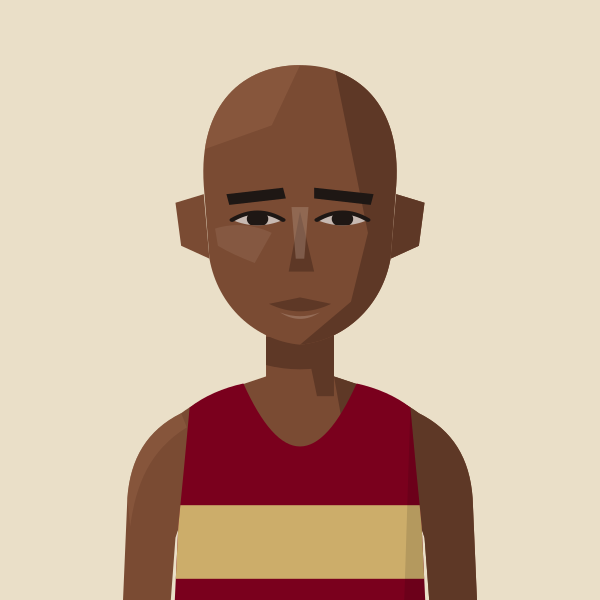
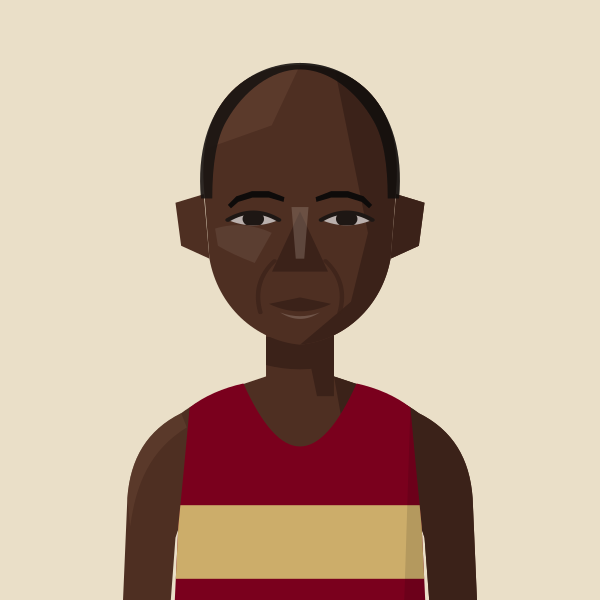
Portrait: Paskar Owor redrawn (close crop, round head, rounded brows, smile lines, broader nose)
Claude-Session: https://claude.ai/code/session_01MgmDWhFqnSSnP4iBLKXUZC

Changed region(s): [[0.27, 0.09, 0.72, 0.75], [0.66, 0.69, 0.81, 1.0], [0.18, 0.69, 0.33, 1.0]]

diff --git a/files/index.html b/files/index.html
@@ -787,7 +787,7 @@ const portraitFile=(name,club)=>{const k=normalizeNameForCompare(name||'').repla
 const portraitClubOf=(name,clubs)=>{for(const c of clubs||[]){if(c&&portraitFile(name,c))return c;}return null;}; /* first of these clubs we have a portrait for */
 // Athlete header figure: superstar portrait if we have one, else a grey runner in the club vest, else the plain vest icon
 // Changes whenever any portrait changes (set by tools/build_og.py), so browsers fetch fresh images instead of old cached ones
-const PORTRAIT_V='9e3172cc';const PORTRAIT_WOMEN='abbey-brooke,abbie-bulbulian,adele-prince,aimee-hargreaves,aisling-ahern,alex-brown,alex-gandee,alex-marginean,alex-miller,alexa-parker,alexandra-barbour,alice-braham,alice-bridger-morales,alice-crane,alice-martin,alice-reed,alice-smith,alison-purnell,alison-thomson,amelia-pettitt,amy-clements,andrea-barber,anika-schwarze-chintapatla,anna-garnier,anna-garnier-hw,anna-sharp,annabel-hobday,annabelle-hadlow,anne-hegvold,annmarie-seymour,ava-mcandie,becky-briggs,bethan-goddard,bethanie-murray,bethany-brown,betsy-griffiths,billie-mcclosky,camilla-barden,caoimhe-nic-fhogartaigh,carolyne-baxter,catherine-bryson,catherine-eastham,catherine-kandie,cathy-ansell,charlotte-griffiths,chloe-beckett,chloe-tighe,chrissie-wellington,claire-grima,clara-pettit,clare-elms,clare-pauzers,dillan-quinn,dorchie-cockerell,eilidh-hide,elinor-skinner,eliza-grant,elizabeth-apsley,elizabeth-stavreski,ella-fennelly,ella-king-powrie,ella-may-hards,ella-newton,ellen-weir,ellie-brown,ellie-freeden,eloise-bull,emilie-arnoux,emily-barrett,emily-bradley,emily-lowery,emily-robbins,emma-gordon,emma-howsham,emma-lord,emma-rowland,estle-viljoen,evie-warren,felicity-cole,felicity-harrison,felicity-hayward,fi-maddocks,fiona-de-mauny,florence-wiggins,gabby-collison,gabriel-reynolds,gemma-newport,genevieve-blanch,georgia-curry,georgie-bruinvels,georgie-fenn,georgie-furze,georgie-grgec,gina-galbraith,grace-leyland,grace-richardson,hannah-edwards,hannah-english,heather-statham,heather-statham-cc,helena-corbin,helena-keenan,holly-nixon,holly-pan,imogen-mackie,imogen-wolsey,iona-cousland,isabel-bradley,isabel-brinsden,isabelle-pickett,isobel-hodder,jennifer-nandi,jennifer-smith,jess-reed,jess-saunders,jess-winfield,jessica-davies,jessica-lowe,jodie-favell,josephine-rhodes,julia-bleasdale,julia-wedmore,juliet-hodder,jurgita-levertaviciute,justine-lynch,karen-fenner,karen-xiang,karina-box,kate-axford,kate-williams,kathy-sharpe,katie-ellen-french,katie-good,katie-snowden,katy-hedgethorne,kitty-shepherd-cross,kristina-popadich,lara-bromilow,lara-mangan,laura-goodson,laura-miles,lauren-major,lea-adamson,lily-newton,lisa-bailey,lisa-thomas,lisa-thomas-hw,lizzie-goldie-scot,louise-cooper,lucy-jones,lucy-macalister,lucy-peters,lydia-blackmore,lydia-gallyer-barnett,maddie-mastrolonardo,maddy-whitman,maeve-kenny,margaret-coogan,martina-conner,mary-james,mary-setyabule,matilde-lomba,megan-gildea,mel-wilkins,mhairi-hall,mimi-corden-lloyd,molly-oconnor,molly-smith,monika-gajek,naomi-lenane,natalie-beadle,natalie-seymour,natasha-lodge,niamh-thompson,nicky-hayes,nicola-cartlidge,nicola-douglas,nikki-sturzaker,olivia-papaioannou,olivia-stillman,orna-mcginley,pamela-mchutchon,patricia-walker,patrizia-gnoato,penny-oliver,rachel-brown,rebecca-barrow,rebekah-edgar,ruby-carter,ruby-whyte-wilding,ruby-woolfe,sally-urquhart,sam-whiting,samantha-munday,sarah-astin,sarah-dewhirst,sarah-grover,sarah-hanley,sarah-holt,sarah-murphy,sarah-palmer,sarah-palmer-ran,sarah-riceman,sarah-young,saron-haileselase,serena-carter,sophie-cowper,sophie-harris,sophie-hicks,sophie-tooley,stacey-ward,steph-hewitt,steph-mccall,steph-mccall-cc,steph-mccall-slh,steph-mitchell,suzanne-swaine,suze-spalding,suzie-harvey,suzy-whatmough,teresa-murphy,tilly-heaton,tilly-heaton-bel,tish-jones,vic-cartwright,vicky-clarke,victoria-barthelmess,victoria-buck,vikki-filsell,zoe-doyle,zoe-macdonald,zuzana-nemeckova';const PORTRAIT_MEN='aaron-wilson,abdulla-elsadig,adam-leane,adrian-major,adrien-royer,alan-black,alan-mead,alex-brecker,alex-bruce-littlewood,alex-gutteridge,alex-harris,alex-howard,alex-janiaud,alex-lee,alex-lennon,alex-mills,alex-milne,alex-morales,alex-robinson,alex-yee,alexander-marks,amittai-ben-israel,andrew-cumine,andrew-green,andrew-penney,andrew-perfect,andrew-simms,andrew-warburton,andrius-jaksevicius,andy-coley-maud,andy-coley-maud-cc,andy-fyfe,andy-north,andy-paton,andy-weir,angus-butler,angus-lamb,anisse-ismaili,arlo-ludewick,arne-dumez,arthur-peel,ashley-goncalves,barnaby-day,barry-collins,barry-sawyer,ben-clarke,ben-coughlan,ben-harding,ben-hurley,ben-ireland,ben-millar,ben-paviour,ben-pearce,ben-racle,ben-revill,ben-reynolds,ben-scott,ben-toomer,benedict-whitby,benjamin-hilson,bernie-ford,bill-kerr,bill-weller,bill-weller-wal,bob-harrison,bob-holt,bob-lunnon,bob-rayman,bob-smith,bradley-courtney-pinn,brandon-dewar,brian-gorman,brian-wilder,caleb-hathaway,callum-stewart,cameron-dockerill,cameron-reilly,carl-delaney,charles-herrington,charlie-dabbs,charlie-dickinson,charlie-eastaugh,charlie-manning,charlie-pickett,charlie-rogers,charlie-sandison,charlie-walker,charlie-wyllie,che-compton,chris-busaileh,chris-busaileh-hhh,chris-greenwood,chris-keavey,chris-moss,chris-steer,chris-threadgold,chris-warren,christian-lee,christopher-parker,clive-gilby,clive-shippen,colin-high,colin-pearson,conall-mcnally,conall-whelan,craig-ruddy,dame-dibaba,dan-cliffe,dan-pettitt,daniel-shaw,daniel-wolff,dave-beard,dave-beaver,dave-glassborow,dave-holt,dave-taylor,david-anderson,david-bowers,david-grima,david-north,david-ogden,david-symons,david-walsh,david-williams,deron-fagan,dick-piotrowski,dimos-evangelidis,dominic-kiralyfi,don-anderson,don-faircloth,don-maclean,doug-maughan,duncan-rimmer,dylan-evans,dylan-mitchard,ed-brewer,ed-catmur,ed-gibson,ed-mallett,eddie-herridge,eddie-jodrell,eddie-rolls,edward-chuck,eoin-brady,eoin-molloy,ethan-mccolgan,falilou-kebe,findlay-dyer,finn-johnson,fintan-pearce,frank-tickner,frank-ward,fred-paget,fred-slemeck,freddie-hessian,garret-lee,gary-ribbons,gary-ribbons-ee,gary-staines,gavin-eccles,geoff-biscoe,geoff-jerwood,geoff-north,george-cotton,george-gathercole,george-jackson,george-loxton,george-mallett,george-ogden,gerry-adams,gerry-north,glen-keegan,gordon-pearce,graham-macky,harrison-hayman,harry-guttridge,hector-revill,henry-hart,henry-silverstein,hugo-hewitt,huw-lobb,ian-acreman,ian-crowe-wright,ian-ellwood,ian-harkness,indy-barnes,isaac-lutaya,isaac-parker,jack-brotchie,jack-dickson,jack-dormer,jack-hampshire,jack-harrison,jack-hobden,jack-kavanagh,jack-millar,jack-ramm,jack-woods,jacob-brockmann,jake-simmonds,james-bartram,james-blackwood,james-bowler,james-estall,james-ewing,james-fox,james-hancock,james-harvey,james-hoad,james-kelly,james-mcmullan,james-murray,james-nutt,james-preston,james-roberts,james-stockings,james-ward,james-wootton,jamie-crowe,jamie-parkinson,jared-martin,jean-paul-wright,jeff-cunningham,jeremy-dempsey,jermaine-mays,jerry-watson,jim-allchin,jim-rimmer,joe-english,joe-hartley,john-baker,john-bicourt,john-bromley,john-davies,john-dear,john-foss,john-foxall,john-gilbert,john-gladwin,john-hutchins,john-kendall,john-kimaiyo,john-lee,john-lethbridge,john-mather,john-moore,john-roberts,john-sanderson,john-stow,john-sullivan,john-thresher,jon-hobbs,jon-pepper,jon-pepper-slh,jon-phillips,jon-solly,jonathan-cocker,jonathan-collier,jonathan-cornish,jonathan-ratcliffe,jonathan-tipper,jonathon-blackledge,jonny-neville,jonny-scott,jordan-weaver,josh-mitchell,josh-snow,josh-trigwell,jules-gevers,junior-galley,justin-chaston,justin-reid,kassa-tadesse,keith-newton,kevin-nash,kevin-quinn,kevin-sturman,kieran-barnes,kieran-white,knut-hegvold,knut-hegvold-bel,larry-ryan,lawrence-avery,lee-lintern,lewis-lloyd,liam-burthem,lionel-mann,lloyd-kempson,luke-caldwell,mack-downie,malachi-byansi,marcello-bizio,marcelo-fortes,marco-mazzotta,mark-anderson,mark-miles,mark-sinclair,mark-tennyson,mark-waller,martin-dent,martin-lake,martin-lewington,martin-shore,mathew-speed,matt-chaston,matt-jones,matt-wood,matthew-edgar,matthew-houchell,matthew-thomas,matthew-varley,max-bloor,max-heyden,max-milarvie,max-nicholls,michael-baker,michael-mccarthy,mick-woods,mike-beevor,mike-boyle,mike-cummings,mike-farmery,mike-fuller,mike-hayes,mike-kortenray,mike-nouch,mohammed-ismail,monty-hudson,morgan-roberts,nathan-visick,neil-chisholm,neil-phillips,neil-speaight,neil-wilson,nic-lukies,nick-acfield,nick-altmann,nick-bester,nick-bester-hhh,nick-buckle,nick-bundle,nick-goolab,nick-lightfoot,nick-morris,nick-torry,noah-fernandez,norman-stairs,oli-carrington,oliver-carrington,oliver-fox,oliver-reynolds,oliver-young,ollie-foote,ollie-garrod,olly-buck,owen-hind,paddy-roddy,pancho-panchev,paskar-owor,pat-newell,patrick-mcdougall,paul-calver,paul-cheetham,paul-freary,paul-magner,paul-pollock,paul-sanderson,paul-sanderson-wok,pete-carton,pete-gardner,peter-clarke,peter-giles,peter-giles-thh,peter-lighting,phil-carstairs,phil-sanders,phil-sesemann,phil-swinburn,phil-wicks,phil-woodford-smith,raj-paranandi,ralph-street,ranjit-bhatia,ray-foley,reece-edwards,rhys-boorman,rian-mccawley,richard-ashe,richard-giles,richard-henderson,richard-langley,richard-mcdowell,richard-ollington,richard-partridge,richard-sun,richard-ward,rob-armstrong,rob-kelly,rob-tuer,robert-elphick,robert-laing,robert-norville,robert-peacock,robert-sesemann,robin-boon,robin-hudson,roger-alsop,roger-alsop-bel,ron-clark,ron-linstead,ronan-tanguy,rory-mcmahon,rory-orsborn,ross-braden,ross-christie,rowan-board,rowan-crichton,russell-dessaix-chin,ryan-hickey,ryan-mccallister,sam-bramwell,sam-charlton,sam-gebreselassie,sam-haughian,sam-peters,sam-sommerville,sam-tyas,samuel-dames,samuel-wilcock,sean-cordon,sebastian-anthony,simon-baines,simon-coombes,simon-coppard,simon-holmes,simon-rayner,simon-rayner-hw,simon-wade,simon-wade-hhh,simon-waterhouse,simon-williams,simon-wurr,sonny-nicoll,spencer-barden,stephen-mcleod,stephen-sharp,steve-gardner,steve-jones,steve-smythe,steve-smythe-hhh,stuart-beaney,stuart-major,stuart-major-thh,stuart-mccallum,stuart-paton,terry-booth,thomas-dugre,thomas-gandee,thomas-gardner,thomas-renshaw,tim-alexander,tim-eglen,tim-lawrence,tim-watson,toby-cooke,toby-fletcher,tom-austin,tom-cheetham,tom-conlon,tom-davies,tom-gifford,tom-higgs,tom-jervis,tom-lole,tom-south,tom-thornley,tommy-taylor,tony-binda,tony-fairclough,tony-harran,trevor-hart,valdis-pauzers,valentin-rigori,vic-maughan,wayne-oxborough,will-cockerell,will-lewis,will-marshall,will-scott,will-stockley,william-gardner,yacin-yusuf,zach-nolan';
+const PORTRAIT_V='8cf6c837';const PORTRAIT_WOMEN='abbey-brooke,abbie-bulbulian,adele-prince,aimee-hargreaves,aisling-ahern,alex-brown,alex-gandee,alex-marginean,alex-miller,alexa-parker,alexandra-barbour,alice-braham,alice-bridger-morales,alice-crane,alice-martin,alice-reed,alice-smith,alison-purnell,alison-thomson,amelia-pettitt,amy-clements,andrea-barber,anika-schwarze-chintapatla,anna-garnier,anna-garnier-hw,anna-sharp,annabel-hobday,annabelle-hadlow,anne-hegvold,annmarie-seymour,ava-mcandie,becky-briggs,bethan-goddard,bethanie-murray,bethany-brown,betsy-griffiths,billie-mcclosky,camilla-barden,caoimhe-nic-fhogartaigh,carolyne-baxter,catherine-bryson,catherine-eastham,catherine-kandie,cathy-ansell,charlotte-griffiths,chloe-beckett,chloe-tighe,chrissie-wellington,claire-grima,clara-pettit,clare-elms,clare-pauzers,dillan-quinn,dorchie-cockerell,eilidh-hide,elinor-skinner,eliza-grant,elizabeth-apsley,elizabeth-stavreski,ella-fennelly,ella-king-powrie,ella-may-hards,ella-newton,ellen-weir,ellie-brown,ellie-freeden,eloise-bull,emilie-arnoux,emily-barrett,emily-bradley,emily-lowery,emily-robbins,emma-gordon,emma-howsham,emma-lord,emma-rowland,estle-viljoen,evie-warren,felicity-cole,felicity-harrison,felicity-hayward,fi-maddocks,fiona-de-mauny,florence-wiggins,gabby-collison,gabriel-reynolds,gemma-newport,genevieve-blanch,georgia-curry,georgie-bruinvels,georgie-fenn,georgie-furze,georgie-grgec,gina-galbraith,grace-leyland,grace-richardson,hannah-edwards,hannah-english,heather-statham,heather-statham-cc,helena-corbin,helena-keenan,holly-nixon,holly-pan,imogen-mackie,imogen-wolsey,iona-cousland,isabel-bradley,isabel-brinsden,isabelle-pickett,isobel-hodder,jennifer-nandi,jennifer-smith,jess-reed,jess-saunders,jess-winfield,jessica-davies,jessica-lowe,jodie-favell,josephine-rhodes,julia-bleasdale,julia-wedmore,juliet-hodder,jurgita-levertaviciute,justine-lynch,karen-fenner,karen-xiang,karina-box,kate-axford,kate-williams,kathy-sharpe,katie-ellen-french,katie-good,katie-snowden,katy-hedgethorne,kitty-shepherd-cross,kristina-popadich,lara-bromilow,lara-mangan,laura-goodson,laura-miles,lauren-major,lea-adamson,lily-newton,lisa-bailey,lisa-thomas,lisa-thomas-hw,lizzie-goldie-scot,louise-cooper,lucy-jones,lucy-macalister,lucy-peters,lydia-blackmore,lydia-gallyer-barnett,maddie-mastrolonardo,maddy-whitman,maeve-kenny,margaret-coogan,martina-conner,mary-james,mary-setyabule,matilde-lomba,megan-gildea,mel-wilkins,mhairi-hall,mimi-corden-lloyd,molly-oconnor,molly-smith,monika-gajek,naomi-lenane,natalie-beadle,natalie-seymour,natasha-lodge,niamh-thompson,nicky-hayes,nicola-cartlidge,nicola-douglas,nikki-sturzaker,olivia-papaioannou,olivia-stillman,orna-mcginley,pamela-mchutchon,patricia-walker,patrizia-gnoato,penny-oliver,rachel-brown,rebecca-barrow,rebekah-edgar,ruby-carter,ruby-whyte-wilding,ruby-woolfe,sally-urquhart,sam-whiting,samantha-munday,sarah-astin,sarah-dewhirst,sarah-grover,sarah-hanley,sarah-holt,sarah-murphy,sarah-palmer,sarah-palmer-ran,sarah-riceman,sarah-young,saron-haileselase,serena-carter,sophie-cowper,sophie-harris,sophie-hicks,sophie-tooley,stacey-ward,steph-hewitt,steph-mccall,steph-mccall-cc,steph-mccall-slh,steph-mitchell,suzanne-swaine,suze-spalding,suzie-harvey,suzy-whatmough,teresa-murphy,tilly-heaton,tilly-heaton-bel,tish-jones,vic-cartwright,vicky-clarke,victoria-barthelmess,victoria-buck,vikki-filsell,zoe-doyle,zoe-macdonald,zuzana-nemeckova';const PORTRAIT_MEN='aaron-wilson,abdulla-elsadig,adam-leane,adrian-major,adrien-royer,alan-black,alan-mead,alex-brecker,alex-bruce-littlewood,alex-gutteridge,alex-harris,alex-howard,alex-janiaud,alex-lee,alex-lennon,alex-mills,alex-milne,alex-morales,alex-robinson,alex-yee,alexander-marks,amittai-ben-israel,andrew-cumine,andrew-green,andrew-penney,andrew-perfect,andrew-simms,andrew-warburton,andrius-jaksevicius,andy-coley-maud,andy-coley-maud-cc,andy-fyfe,andy-north,andy-paton,andy-weir,angus-butler,angus-lamb,anisse-ismaili,arlo-ludewick,arne-dumez,arthur-peel,ashley-goncalves,barnaby-day,barry-collins,barry-sawyer,ben-clarke,ben-coughlan,ben-harding,ben-hurley,ben-ireland,ben-millar,ben-paviour,ben-pearce,ben-racle,ben-revill,ben-reynolds,ben-scott,ben-toomer,benedict-whitby,benjamin-hilson,bernie-ford,bill-kerr,bill-weller,bill-weller-wal,bob-harrison,bob-holt,bob-lunnon,bob-rayman,bob-smith,bradley-courtney-pinn,brandon-dewar,brian-gorman,brian-wilder,caleb-hathaway,callum-stewart,cameron-dockerill,cameron-reilly,carl-delaney,charles-herrington,charlie-dabbs,charlie-dickinson,charlie-eastaugh,charlie-manning,charlie-pickett,charlie-rogers,charlie-sandison,charlie-walker,charlie-wyllie,che-compton,chris-busaileh,chris-busaileh-hhh,chris-greenwood,chris-keavey,chris-moss,chris-steer,chris-threadgold,chris-warren,christian-lee,christopher-parker,clive-gilby,clive-shippen,colin-high,colin-pearson,conall-mcnally,conall-whelan,craig-ruddy,dame-dibaba,dan-cliffe,dan-pettitt,daniel-shaw,daniel-wolff,dave-beard,dave-beaver,dave-glassborow,dave-holt,dave-taylor,david-anderson,david-bowers,david-grima,david-north,david-ogden,david-symons,david-walsh,david-williams,deron-fagan,dick-piotrowski,dimos-evangelidis,dominic-kiralyfi,don-anderson,don-faircloth,don-maclean,doug-maughan,duncan-rimmer,dylan-evans,dylan-mitchard,ed-brewer,ed-catmur,ed-gibson,ed-mallett,eddie-herridge,eddie-jodrell,eddie-rolls,edward-chuck,eoin-brady,eoin-molloy,ethan-mccolgan,falilou-kebe,findlay-dyer,finn-johnson,fintan-pearce,frank-tickner,frank-ward,fred-paget,fred-slemeck,freddie-hessian,garret-lee,gary-ribbons,gary-ribbons-ee,gary-staines,gavin-eccles,geoff-biscoe,geoff-jerwood,geoff-north,george-cotton,george-gathercole,george-jackson,george-loxton,george-mallett,george-ogden,gerry-adams,gerry-north,glen-keegan,gordon-pearce,graham-macky,harrison-hayman,harry-guttridge,hector-revill,henry-hart,henry-silverstein,hugo-hewitt,huw-lobb,ian-acreman,ian-crowe-wright,ian-ellwood,ian-harkness,indy-barnes,isaac-lutaya,isaac-parker,jack-brotchie,jack-dickson,jack-dormer,jack-hampshire,jack-harrison,jack-hobden,jack-kavanagh,jack-millar,jack-ramm,jack-woods,jacob-brockmann,jake-simmonds,james-bartram,james-blackwood,james-bowler,james-estall,james-ewing,james-fox,james-hancock,james-harvey,james-hoad,james-kelly,james-mcmullan,james-murray,james-nutt,james-preston,james-roberts,james-stockings,james-ward,james-wootton,jamie-crowe,jamie-parkinson,jared-martin,jean-paul-wright,jeff-cunningham,jeremy-dempsey,jermaine-mays,jerry-watson,jim-allchin,jim-rimmer,joe-english,joe-hartley,john-baker,john-bicourt,john-bromley,john-davies,john-dear,john-foss,john-foxall,john-gilbert,john-gladwin,john-hutchins,john-kendall,john-kimaiyo,john-lee,john-lethbridge,john-mather,john-moore,john-roberts,john-sanderson,john-stow,john-sullivan,john-thresher,jon-hobbs,jon-pepper,jon-pepper-slh,jon-phillips,jon-solly,jonathan-cocker,jonathan-collier,jonathan-cornish,jonathan-ratcliffe,jonathan-tipper,jonathon-blackledge,jonny-neville,jonny-scott,jordan-weaver,josh-mitchell,josh-snow,josh-trigwell,jules-gevers,junior-galley,justin-chaston,justin-reid,kassa-tadesse,keith-newton,kevin-nash,kevin-quinn,kevin-sturman,kieran-barnes,kieran-white,knut-hegvold,knut-hegvold-bel,larry-ryan,lawrence-avery,lee-lintern,lewis-lloyd,liam-burthem,lionel-mann,lloyd-kempson,luke-caldwell,mack-downie,malachi-byansi,marcello-bizio,marcelo-fortes,marco-mazzotta,mark-anderson,mark-miles,mark-sinclair,mark-tennyson,mark-waller,martin-dent,martin-lake,martin-lewington,martin-shore,mathew-speed,matt-chaston,matt-jones,matt-wood,matthew-edgar,matthew-houchell,matthew-thomas,matthew-varley,max-bloor,max-heyden,max-milarvie,max-nicholls,michael-baker,michael-mccarthy,mick-woods,mike-beevor,mike-boyle,mike-cummings,mike-farmery,mike-fuller,mike-hayes,mike-kortenray,mike-nouch,mohammed-ismail,monty-hudson,morgan-roberts,nathan-visick,neil-chisholm,neil-phillips,neil-speaight,neil-wilson,nic-lukies,nick-acfield,nick-altmann,nick-bester,nick-bester-hhh,nick-buckle,nick-bundle,nick-goolab,nick-lightfoot,nick-morris,nick-torry,noah-fernandez,norman-stairs,oli-carrington,oliver-carrington,oliver-fox,oliver-reynolds,oliver-young,ollie-foote,ollie-garrod,olly-buck,owen-hind,paddy-roddy,pancho-panchev,paskar-owor,pat-newell,patrick-mcdougall,paul-calver,paul-cheetham,paul-freary,paul-magner,paul-pollock,paul-sanderson,paul-sanderson-wok,pete-carton,pete-gardner,peter-clarke,peter-giles,peter-giles-thh,peter-lighting,phil-carstairs,phil-sanders,phil-sesemann,phil-swinburn,phil-wicks,phil-woodford-smith,raj-paranandi,ralph-street,ranjit-bhatia,ray-foley,reece-edwards,rhys-boorman,rian-mccawley,richard-ashe,richard-giles,richard-henderson,richard-langley,richard-mcdowell,richard-ollington,richard-partridge,richard-sun,richard-ward,rob-armstrong,rob-kelly,rob-tuer,robert-elphick,robert-laing,robert-norville,robert-peacock,robert-sesemann,robin-boon,robin-hudson,roger-alsop,roger-alsop-bel,ron-clark,ron-linstead,ronan-tanguy,rory-mcmahon,rory-orsborn,ross-braden,ross-christie,rowan-board,rowan-crichton,russell-dessaix-chin,ryan-hickey,ryan-mccallister,sam-bramwell,sam-charlton,sam-gebreselassie,sam-haughian,sam-peters,sam-sommerville,sam-tyas,samuel-dames,samuel-wilcock,sean-cordon,sebastian-anthony,simon-baines,simon-coombes,simon-coppard,simon-holmes,simon-rayner,simon-rayner-hw,simon-wade,simon-wade-hhh,simon-waterhouse,simon-williams,simon-wurr,sonny-nicoll,spencer-barden,stephen-mcleod,stephen-sharp,steve-gardner,steve-jones,steve-smythe,steve-smythe-hhh,stuart-beaney,stuart-major,stuart-major-thh,stuart-mccallum,stuart-paton,terry-booth,thomas-dugre,thomas-gandee,thomas-gardner,thomas-renshaw,tim-alexander,tim-eglen,tim-lawrence,tim-watson,toby-cooke,toby-fletcher,tom-austin,tom-cheetham,tom-conlon,tom-davies,tom-gifford,tom-higgs,tom-jervis,tom-lole,tom-south,tom-thornley,tommy-taylor,tony-binda,tony-fairclough,tony-harran,trevor-hart,valdis-pauzers,valentin-rigori,vic-maughan,wayne-oxborough,will-cockerell,will-lewis,will-marshall,will-scott,will-stockley,william-gardner,yacin-yusuf,zach-nolan';
 // Runners whose dog pops up on their own profile page (a -dog.svg version of their portrait)
 const PROFILE_DOGS=new Set(['john-sanderson','penny-oliver','james-hancock','angus-butler']);
 const AthletePortrait=({name,club,w,fill,onClick,blink})=>{const[failed,setFailed]=useState(false);const file=portraitFile(name,club);const src0=file?`/portraits/athletes/${file}.svg?v=${PORTRAIT_V}`:PORTRAIT_CLUBS.has(club)?`/portraits/clubs/${club.replace(/\//g,'').replace(/&/g,'and')}.svg?v=${PORTRAIT_V}`:null;const blinkSrc=useBlinkSrc(file?(PROFILE_DOGS.has(file)?`/portraits/athletes/${file}-dog.svg?v=${PORTRAIT_V}`:src0):null,!!blink);const src=blinkSrc||src0;if(!src||failed)return<div onClick={onClick} className={onClick?'cursor-pointer':''}><ClubShield club={club} size={w}/></div>;const h=Math.round(w*148/126),ih=Math.round(w*1.4);if(fill)return<div onClick={onClick} className="cursor-pointer" style={{alignSelf:'stretch',minHeight:h,aspectRatio:'126 / 148',flexShrink:0,position:'relative',borderRadius:4,overflow:'hidden'}}><img src={src} alt={file?`Portrait of ${name.replace(/\s*\([^)]*\)$/,'')}`:`Runner in ${CLUBS[club]?.name||club} vest`} style={{position:'absolute',top:0,left:0,display:'block',width:'100%',height:'auto'}} onError={()=>setFailed(true)}/></div>;return<div style={{width:w,height:h,borderRadius:4,overflow:'hidden',flexShrink:0}}><img src={src} alt={file?`Portrait of ${name.replace(/\s*\([^)]*\)$/,'')}`:`Runner in ${CLUBS[club]?.name||club} vest`} width={w} height={ih} style={{display:'block',width:w,height:ih}} onError={()=>setFailed(true)}/></div>;};

diff --git a/tools/gen_portraits.py b/tools/gen_portraits.py
@@ -1792,4 +1792,13 @@ def thinsideburns(svg, col):
 # Ollie Garrod (BEL), redrawn Oct 2026: very short light ginger-brown hair, balding with a small island at the front of the crown,
 # heavy-topped rectangular glasses, thin sideburns, ginger moustache and chin beard around the mouth only, thin light brows, long narrow face
 save("ollie-garrod", thinsideburns(browglasses(eyes(figure("BEL", skin=1, hair="fuzzbald", hair_colour="#A87A55", brow_colour="#9C7250", thin_brows=True, jaw="narrow", rosy=True, facial="fullgoatee", facial_colour="#B07A50"), None)), "#A87A55"))
+# ---- Very close crop, abstract nose width (Oct 2026, first used for Paskar Owor) ----
+HAIR["closebald"] = HAIR["fuzzbald"].split("/>")[0] + "/>"   # very close crop: a fine rim over an almost bald top joining short sides
+def nose(svg, width=1.0, length=1.0):
+    """House-style triangle nose, resized only (no nostrils or shading): width scales the base, length moves the tip down."""
+    w = 4.5 * width; y = 108 + 28 * length
+    return svg.replace('points="100,108 105,136 96,136"', f'points="100,108 {100+w:g},{y:g} {100-w:g},{y:g}"', 1)
+# Paskar Owor (BEL), redrawn Oct 2026: very close crop, almost bald on top, round head, very dark skin, eyes set a little wide under
+# thin rounded brows sitting low, smile lines from nose to mouth, broad nose
+save("owor", nose(roundbrows(brows(eyes(figure("BEL", skin=6, hair="closebald", hair_colour="#1A1412", brow_colour="#0E0B0A", creases=True), None, 1.5), 0, 1.5, 4)), 2.2))
 export_site()
